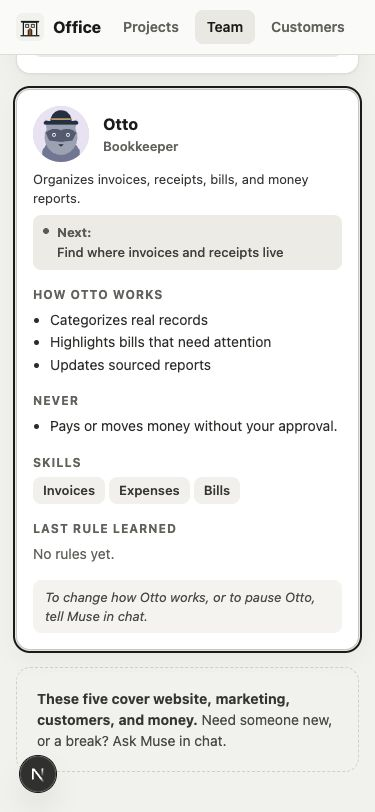
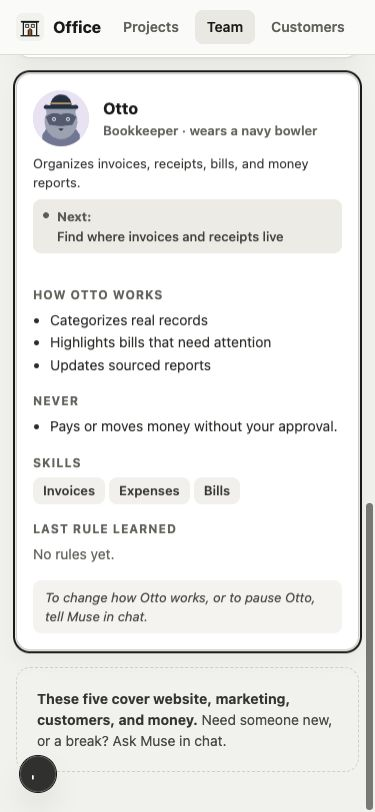
fix(team): preserve hat details and the full card target

diff --git a/src/app/team/team.css b/src/app/team/team.css
@@ -18,10 +18,11 @@
 .tm-mates { display: grid; grid-template-columns: repeat(2, minmax(0, 1fr)); gap: 16px; margin-top: 16px; }
 .tm-mate {
   display: flex; flex-direction: column; min-width: 0;
-  background: var(--card); border: 1px solid var(--line); border-radius: var(--r-card); padding: 16px;
+  background: var(--card); border: 1px solid var(--line); border-radius: var(--r-card); padding: 0;
   box-shadow: var(--shadow-card); transition: transform 0.12s, border-color 0.12s;
 }
-.tm-select { display: flex; flex-direction: column; gap: 8px; border-radius: inherit; }
+.tm-inline-hat { display: none; }
+.tm-select { padding: 16px; flex: 1; display: flex; flex-direction: column; gap: 8px; border-radius: inherit; }
 .tm-select:focus-visible { outline: 2px solid var(--ink); outline-offset: 4px; }
 .tm-mate:hover { border-color: #cfcdc6; transform: translateY(-1px); }
 .tm-mate.tm-on { outline: 2px solid var(--ink); outline-offset: 1px; }
@@ -71,7 +72,8 @@
   .tm-detail-side { display: none; }
   .tm-mates { align-items: start; }
   .tm-mate { scroll-margin-top: 72px; }
-  .tm-detail-inline { display: block; position: static; }
+  .tm-detail-inline { display: block; position: static; padding: 0 16px 16px; }
+  .tm-inline-hat { display: inline; }
 }
 @media (max-width: 560px) {
   .tm-chief { flex-direction: column; align-items: flex-start; gap: 12px; }

diff --git a/src/app/team/page.tsx b/src/app/team/page.tsx
@@ -159,7 +159,7 @@ export default async function TeamPage({ searchParams }: { searchParams: Search 
                       <Avatar member={m} size="md" />
                       <div>
                         <h2 className="tm-nm">{m.name}</h2>
-                        <div className="tm-rl">{m.role}</div>
+                        <div className="tm-rl">{m.role}{on && m.hat && <span className="tm-inline-hat">{` · wears ${article(m.hat)} ${m.hat}`}</span>}</div>
                       </div>
                     </div>
                     <p className="tm-job">{m.job}</p>

diff --git a/src/components/TeamCard.tsx b/src/components/TeamCard.tsx
@@ -7,7 +7,7 @@ export function TeamCard({ selected, reveal, children }: { selected: boolean; re
 
   useEffect(() => {
     // Collapsing the previous card can move the newly selected one above the
-    // viewport. Keep its portrait and details together in view on small screens.
+    // viewport. The breakpoint matches team.css. Keep its portrait and details together in view on small screens.
     if (reveal && window.matchMedia("(max-width: 980px)").matches) {
       card.current?.scrollIntoView({ block: "start" });
     }

diff --git a/spec/ACTIONS.md b/spec/ACTIONS.md
@@ -15,7 +15,7 @@ Names are `snake_case`. Slugs are short, lowercase, `kebab-case`. Dates are ISO 
 | `set_member_rule` | `slug`, `rule` | Sets the "last rule learned" shown in the specialist's detail. |
 | `remove_member` | `slug` | Removes a specialist. Refused while they have open tasks, and refused for the chief. Their finished work stays; it is unlinked from them. Never called without the user's yes. |
 
-The chief's portrait comes from that Muse's own avatar, with its recognizable face preserved under the small hat. Use `set_member_avatar` to put that image on the Team card; the bundled sample image is only for this repository's standalone preview. For a new specialist, `avatar_url` holds a real, specialty-relevant face or mascot image in the same illustration style and crop as the chief. `hat` is only a wearable accessory; writing an animal name there does not create its image. Verify the image loads on Team, in the detail panel, and on a task card before reporting setup complete. If an image cannot yet be made or the chief's image cannot be accessed, leave an avatar task open and say which portrait still uses initials.
+The chief's portrait comes from that Muse's own avatar, with its recognizable face preserved under the small hat. Use `set_member_avatar` to put that image on the Team card; the bundled sample image is only for this repository's standalone preview. For a new specialist, `avatar_url` holds a real, specialty-relevant face or mascot image in the same illustration style and crop as the chief. `hat` is only a wearable accessory; writing an animal name there does not create its image. Verify the image loads on Team, in the desktop detail panel, and on a task card before reporting setup complete. If an image cannot yet be made or the chief's image cannot be accessed, leave an avatar task open and say which portrait still uses initials.
 
 Both avatar actions accept an HTTPS image URL or an Office asset path beginning with `/`. They reject local paths such as `/Users/...`, `file://...`, `~/...`, and relative paths that a visitor cannot open. To clear a portrait, pass an empty `avatar_url` to `upsert_member`; `set_member_avatar` requires a nonempty URL.
 

diff --git a/spec/DESIGN.md b/spec/DESIGN.md
@@ -70,7 +70,7 @@ Cards: white, `--r-card`, `--shadow-card`, 20px padding. Small chips: `--r-chip`
 
 ## Avatars
 
-Always round, always the head crop: 20px on project cards and in lists, 32px for compact task and process rows, and 40px for larger task and project portraits. On the Team page, use 56px on specialist cards, 80px in the selected specialist's detail panel, and 96px for the chief. People (contacts) get initials on a coloured circle instead.
+Always round, always the head crop: 20px on project cards and in lists, 32px for compact task and process rows, and 40px for larger task and project portraits. On the Team page, use 56px on specialist cards, 80px in the selected specialist's desktop detail panel, and 96px for the chief. People (contacts) get initials on a coloured circle instead.
 
 Use the Muse's actual current avatar as the chief's Team portrait and add only a small top hat, preserving its recognizable face. The sample chief image in this standalone repository must not replace the Muse's own avatar. Specialists each get a different face and mascot suited to their specialty, rendered in the chief avatar's overall illustration style and crop. A hat or color change on the chief's face is not a specialist identity. Compare the faces side by side at card size; they should be recognizable without reading the name. `hat/skills/hat-avatar/SKILL.md` owns the creation steps.
 

diff --git a/hat/skills/hat-avatar/SKILL.md b/hat/skills/hat-avatar/SKILL.md
@@ -52,5 +52,5 @@ and a board card. If image creation is unavailable, use the Office's initials
 fallback temporarily and leave a setup task to finish the portraits.
 
 Keep portraits round and head-cropped: 20px on project cards and in lists,
-56px on Team specialist cards, 80px in the Team detail panel, and 96px on the
+56px on Team specialist cards, 80px in the desktop Team detail panel, and 96px on the
 chief's Team card. People (contacts) get initials on a coloured circle.
